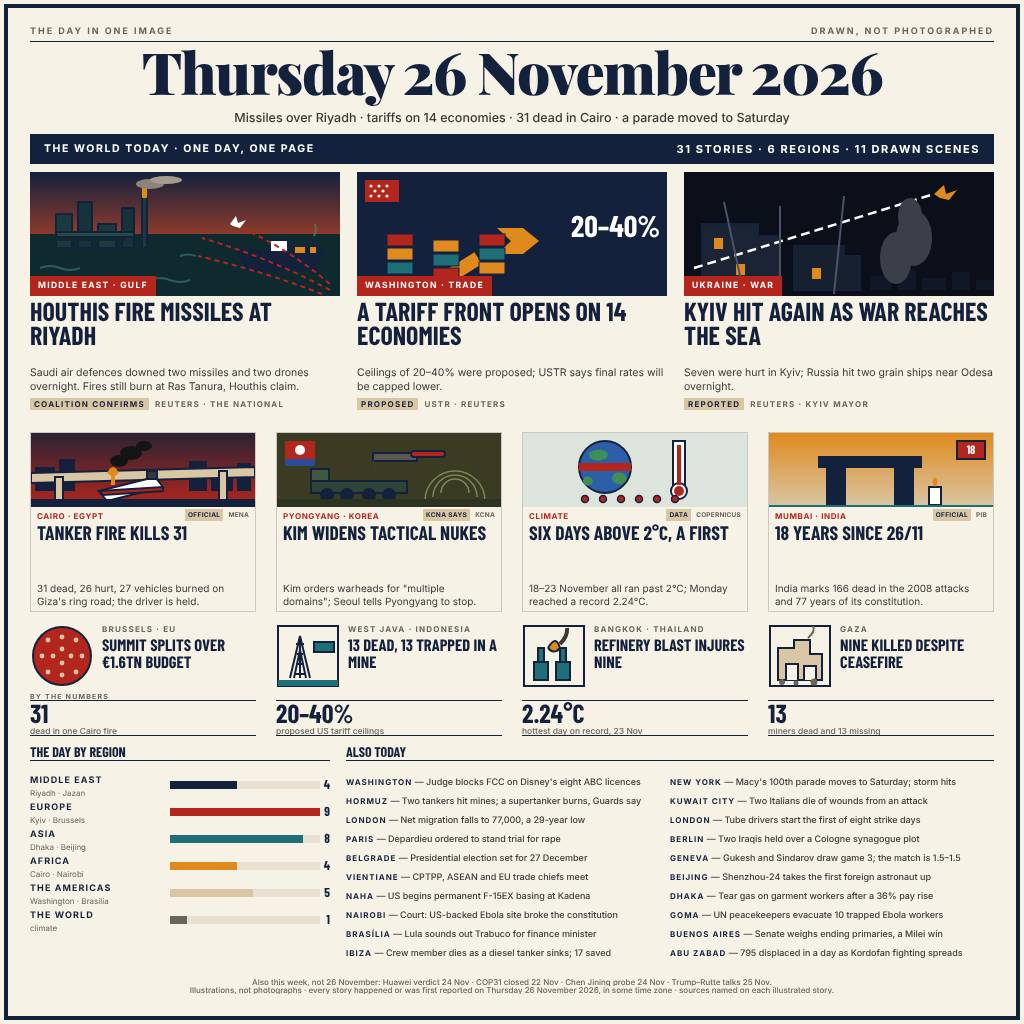
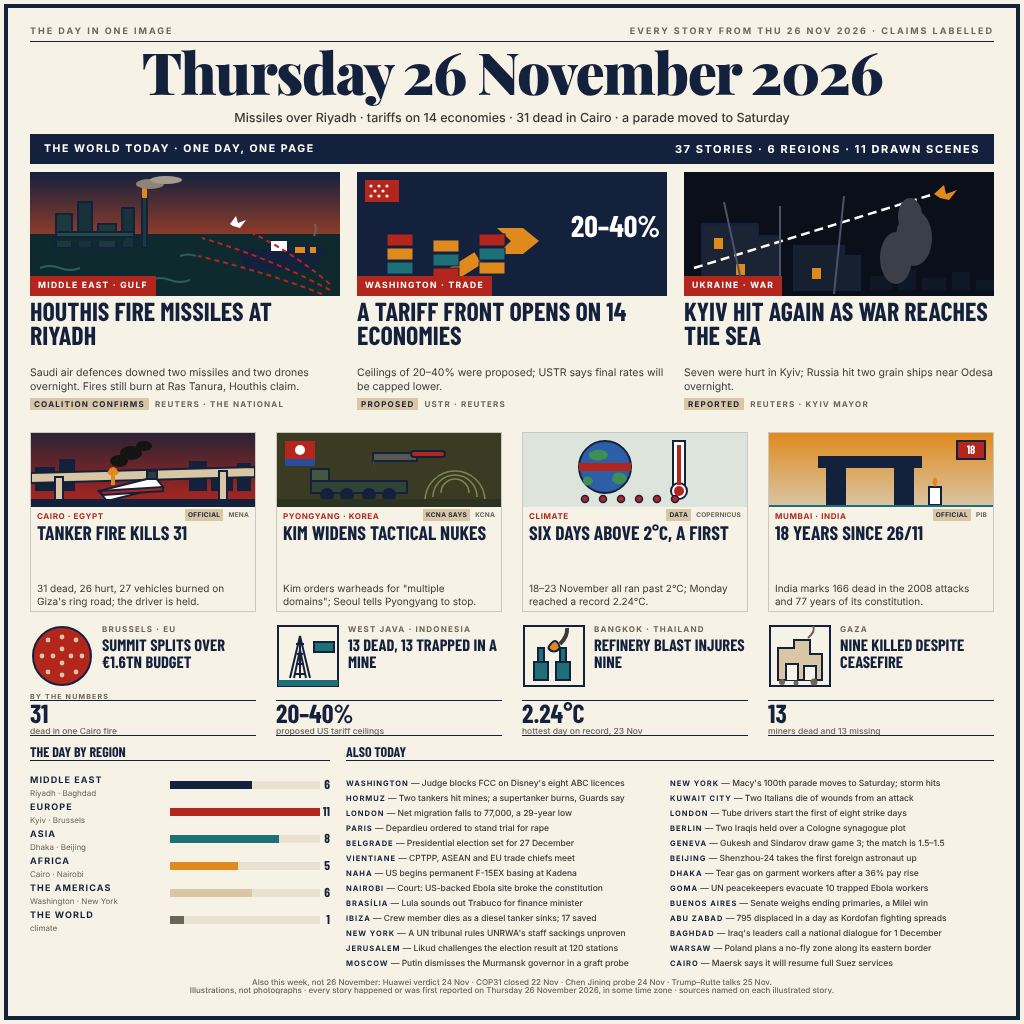
Expand the front page to 37 stories
- Add six briefs in a compact thirteen-row grid
- Correct the story, region and scene counts
- State the date and claims policy in the kicker

diff --git a/src/entry.html b/src/entry.html
@@ -60,9 +60,9 @@ body{font-family:Inter,Arial,sans-serif;color:var(--ink);text-rendering:geometri
 .region-row .bar{left:0;top:0;height:8px}
 .region-row .count{right:0;top:1px;width:8px;height:15px;font-family:Barlow,Impact,sans-serif;font-weight:700;font-size:13px;line-height:15px;text-align:right;color:var(--ink)}
 .briefs{top:744px;left:346px;width:648px;height:228px}
-.brief-grid{left:0;top:32px;width:648px;height:190px}
-.brief{position:absolute;width:324px;height:19px;overflow:hidden;text-overflow:clip;white-space:nowrap;font-size:9px;line-height:13px;font-weight:500;color:var(--body)}
-.brief .city{font-family:Inter,Arial,sans-serif;font-size:8px;line-height:13px;font-weight:700;letter-spacing:1px;color:var(--ink);text-transform:uppercase}
+.brief-grid{left:0;top:32px;width:648px;height:195px}
+.brief{position:absolute;width:324px;height:15px;overflow:hidden;text-overflow:clip;white-space:nowrap;font-size:8.5px;line-height:15px;font-weight:500;color:var(--body)}
+.brief .city{font-family:Inter,Arial,sans-serif;font-size:7.5px;line-height:15px;font-weight:700;letter-spacing:1px;color:var(--ink);text-transform:uppercase}
 .footer{left:30px;top:978px;width:964px;height:16px;text-align:center;color:var(--grey);font-size:8px;line-height:8px;font-weight:500}
 .footer-line{position:absolute;left:0;width:964px;height:8px;overflow:hidden;white-space:nowrap}
 .footer-line.one{top:0}.footer-line.two{top:8px}
@@ -76,7 +76,7 @@ svg text{font-family:Barlow,Impact,sans-serif}
 
   <div class="abs kicker">
     <span>The day in one image</span>
-    <span>Drawn, not photographed</span>
+    <span>EVERY STORY FROM THU 26 NOV 2026 · CLAIMS LABELLED</span>
   </div>
   <div class="abs kicker-rule"></div>
 
@@ -86,7 +86,7 @@ svg text{font-family:Barlow,Impact,sans-serif}
 
   <div class="abs navband">
     <span class="nav-l">THE WORLD TODAY · ONE DAY, ONE PAGE</span>
-    <span class="nav-r">31 STORIES · 6 REGIONS · 11 DRAWN SCENES</span>
+    <span class="nav-r">37 STORIES · 6 REGIONS · 11 DRAWN SCENES</span>
   </div>
 
   <!-- ===== Feature row ===== -->
@@ -442,38 +442,38 @@ svg text{font-family:Barlow,Impact,sans-serif}
     <h2 class="abs panel-heading">The day by region</h2>
     <div class="abs panel-rule"></div>
     <div class="abs region-row" style="top:32px">
-      <div class="abs name">Middle East</div><div class="abs cities">Riyadh · Jazan</div>
-      <div class="abs track"><div class="abs bar" style="width:67px;background:var(--ink)"></div></div>
-      <div class="abs count">4</div>
+      <div class="abs name">Middle East</div><div class="abs cities">Riyadh · Baghdad</div>
+      <div class="abs track"><div class="abs bar" style="width:82px;background:var(--ink)"></div></div>
+      <div class="abs count">6</div>
     </div>
     <div class="abs region-row" style="top:59px">
       <div class="abs name">Europe</div><div class="abs cities">Kyiv · Brussels</div>
       <div class="abs track"><div class="abs bar" style="width:150px;background:var(--red)"></div></div>
-      <div class="abs count">9</div>
+      <div class="abs count">11</div>
     </div>
     <div class="abs region-row" style="top:86px">
       <div class="abs name">Asia</div><div class="abs cities">Dhaka · Beijing</div>
-      <div class="abs track"><div class="abs bar" style="width:133.33px;background:var(--teal)"></div></div>
+      <div class="abs track"><div class="abs bar" style="width:109px;background:var(--teal)"></div></div>
       <div class="abs count">8</div>
     </div>
     <div class="abs region-row" style="top:113px">
       <div class="abs name">Africa</div><div class="abs cities">Cairo · Nairobi</div>
-      <div class="abs track"><div class="abs bar" style="width:67px;background:var(--amber)"></div></div>
-      <div class="abs count">4</div>
+      <div class="abs track"><div class="abs bar" style="width:68px;background:var(--amber)"></div></div>
+      <div class="abs count">5</div>
     </div>
     <div class="abs region-row" style="top:140px">
-      <div class="abs name">The Americas</div><div class="abs cities">Washington · Brasília</div>
-      <div class="abs track"><div class="abs bar" style="width:83px;background:var(--sand)"></div></div>
-      <div class="abs count">5</div>
+      <div class="abs name">The Americas</div><div class="abs cities">Washington · New York</div>
+      <div class="abs track"><div class="abs bar" style="width:82px;background:var(--sand)"></div></div>
+      <div class="abs count">6</div>
     </div>
     <div class="abs region-row" style="top:167px">
       <div class="abs name">The World</div><div class="abs cities">climate</div>
-      <div class="abs track"><div class="abs bar" style="width:17px;background:var(--grey)"></div></div>
+      <div class="abs track"><div class="abs bar" style="width:14px;background:var(--grey)"></div></div>
       <div class="abs count">1</div>
     </div>
   </section>
 
-  <!-- ===== Twenty briefs ===== -->
+  <!-- ===== Twenty-six briefs ===== -->
 
   <section class="abs briefs" aria-label="More news briefs">
     <h2 class="abs panel-heading">Also today</h2>
@@ -481,24 +481,30 @@ svg text{font-family:Barlow,Impact,sans-serif}
     <div class="abs brief-grid">
       <div class="brief" style="left:0;top:0"><span class="city">Washington</span> — Judge blocks FCC on Disney's eight ABC licences</div>
       <div class="brief" style="left:324px;top:0"><span class="city">New York</span> — Macy's 100th parade moves to Saturday; storm hits</div>
-      <div class="brief" style="left:0;top:19px"><span class="city">Hormuz</span> — Two tankers hit mines; a supertanker burns, Guards say</div>
-      <div class="brief" style="left:324px;top:19px"><span class="city">Kuwait City</span> — Two Italians die of wounds from an attack</div>
-      <div class="brief" style="left:0;top:38px"><span class="city">London</span> — Net migration falls to 77,000, a 29-year low</div>
-      <div class="brief" style="left:324px;top:38px"><span class="city">London</span> — Tube drivers start the first of eight strike days</div>
-      <div class="brief" style="left:0;top:57px"><span class="city">Paris</span> — Depardieu ordered to stand trial for rape</div>
-      <div class="brief" style="left:324px;top:57px"><span class="city">Berlin</span> — Two Iraqis held over a Cologne synagogue plot</div>
-      <div class="brief" style="left:0;top:76px"><span class="city">Belgrade</span> — Presidential election set for 27 December</div>
-      <div class="brief" style="left:324px;top:76px"><span class="city">Geneva</span> — Gukesh and Sindarov draw game 3; the match is 1.5–1.5</div>
-      <div class="brief" style="left:0;top:95px"><span class="city">Vientiane</span> — CPTPP, ASEAN and EU trade chiefs meet</div>
-      <div class="brief" style="left:324px;top:95px"><span class="city">Beijing</span> — Shenzhou-24 takes the first foreign astronaut up</div>
-      <div class="brief" style="left:0;top:114px"><span class="city">Naha</span> — US begins permanent F-15EX basing at Kadena</div>
-      <div class="brief" style="left:324px;top:114px"><span class="city">Dhaka</span> — Tear gas on garment workers after a 36% pay rise</div>
-      <div class="brief" style="left:0;top:133px"><span class="city">Nairobi</span> — Court: US-backed Ebola site broke the constitution</div>
-      <div class="brief" style="left:324px;top:133px"><span class="city">Goma</span> — UN peacekeepers evacuate 10 trapped Ebola workers</div>
-      <div class="brief" style="left:0;top:152px"><span class="city">Brasília</span> — Lula sounds out Trabuco for finance minister</div>
-      <div class="brief" style="left:324px;top:152px"><span class="city">Buenos Aires</span> — Senate weighs ending primaries, a Milei win</div>
-      <div class="brief" style="left:0;top:171px"><span class="city">Ibiza</span> — Crew member dies as a diesel tanker sinks; 17 saved</div>
-      <div class="brief" style="left:324px;top:171px"><span class="city">Abu Zabad</span> — 795 displaced in a day as Kordofan fighting spreads</div>
+      <div class="brief" style="left:0;top:15px"><span class="city">Hormuz</span> — Two tankers hit mines; a supertanker burns, Guards say</div>
+      <div class="brief" style="left:324px;top:15px"><span class="city">Kuwait City</span> — Two Italians die of wounds from an attack</div>
+      <div class="brief" style="left:0;top:30px"><span class="city">London</span> — Net migration falls to 77,000, a 29-year low</div>
+      <div class="brief" style="left:324px;top:30px"><span class="city">London</span> — Tube drivers start the first of eight strike days</div>
+      <div class="brief" style="left:0;top:45px"><span class="city">Paris</span> — Depardieu ordered to stand trial for rape</div>
+      <div class="brief" style="left:324px;top:45px"><span class="city">Berlin</span> — Two Iraqis held over a Cologne synagogue plot</div>
+      <div class="brief" style="left:0;top:60px"><span class="city">Belgrade</span> — Presidential election set for 27 December</div>
+      <div class="brief" style="left:324px;top:60px"><span class="city">Geneva</span> — Gukesh and Sindarov draw game 3; the match is 1.5–1.5</div>
+      <div class="brief" style="left:0;top:75px"><span class="city">Vientiane</span> — CPTPP, ASEAN and EU trade chiefs meet</div>
+      <div class="brief" style="left:324px;top:75px"><span class="city">Beijing</span> — Shenzhou-24 takes the first foreign astronaut up</div>
+      <div class="brief" style="left:0;top:90px"><span class="city">Naha</span> — US begins permanent F-15EX basing at Kadena</div>
+      <div class="brief" style="left:324px;top:90px"><span class="city">Dhaka</span> — Tear gas on garment workers after a 36% pay rise</div>
+      <div class="brief" style="left:0;top:105px"><span class="city">Nairobi</span> — Court: US-backed Ebola site broke the constitution</div>
+      <div class="brief" style="left:324px;top:105px"><span class="city">Goma</span> — UN peacekeepers evacuate 10 trapped Ebola workers</div>
+      <div class="brief" style="left:0;top:120px"><span class="city">Brasília</span> — Lula sounds out Trabuco for finance minister</div>
+      <div class="brief" style="left:324px;top:120px"><span class="city">Buenos Aires</span> — Senate weighs ending primaries, a Milei win</div>
+      <div class="brief" style="left:0;top:135px"><span class="city">Ibiza</span> — Crew member dies as a diesel tanker sinks; 17 saved</div>
+      <div class="brief" style="left:324px;top:135px"><span class="city">Abu Zabad</span> — 795 displaced in a day as Kordofan fighting spreads</div>
+      <div class="brief" style="left:0;top:150px"><span class="city">New York</span> — A UN tribunal rules UNRWA's staff sackings unproven</div>
+      <div class="brief" style="left:324px;top:150px"><span class="city">Baghdad</span> — Iraq's leaders call a national dialogue for 1 December</div>
+      <div class="brief" style="left:0;top:165px"><span class="city">Jerusalem</span> — Likud challenges the election result at 120 stations</div>
+      <div class="brief" style="left:324px;top:165px"><span class="city">Warsaw</span> — Poland plans a no-fly zone along its eastern border</div>
+      <div class="brief" style="left:0;top:180px"><span class="city">Moscow</span> — Putin dismisses the Murmansk governor in a graft probe</div>
+      <div class="brief" style="left:324px;top:180px"><span class="city">Cairo</span> — Maersk says it will resume full Suez services</div>
     </div>
   </section>
 
